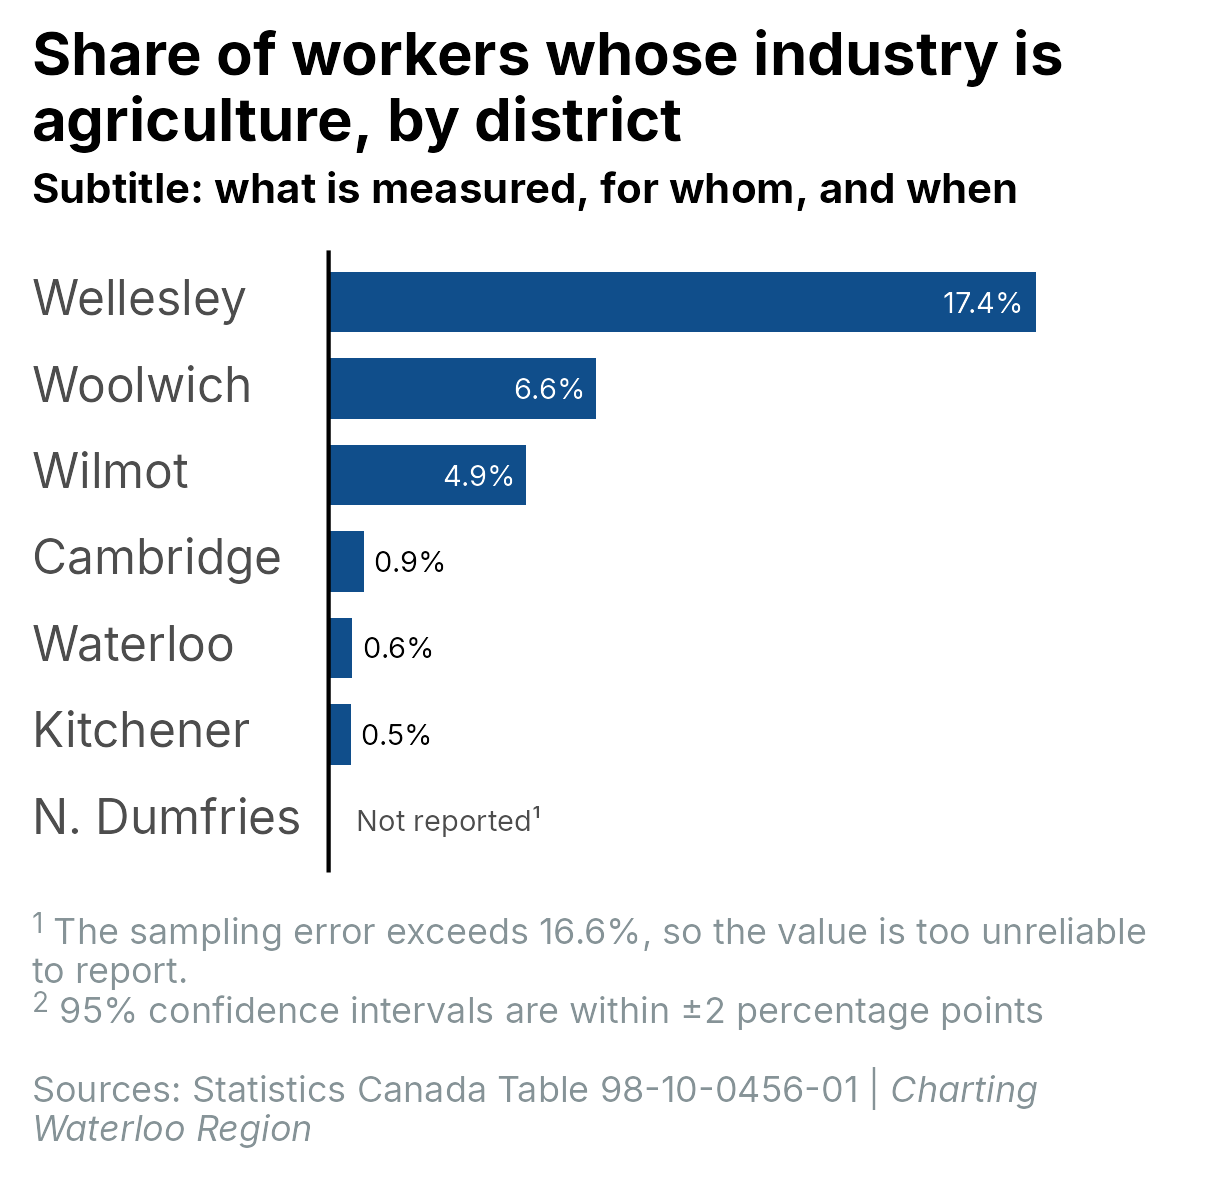
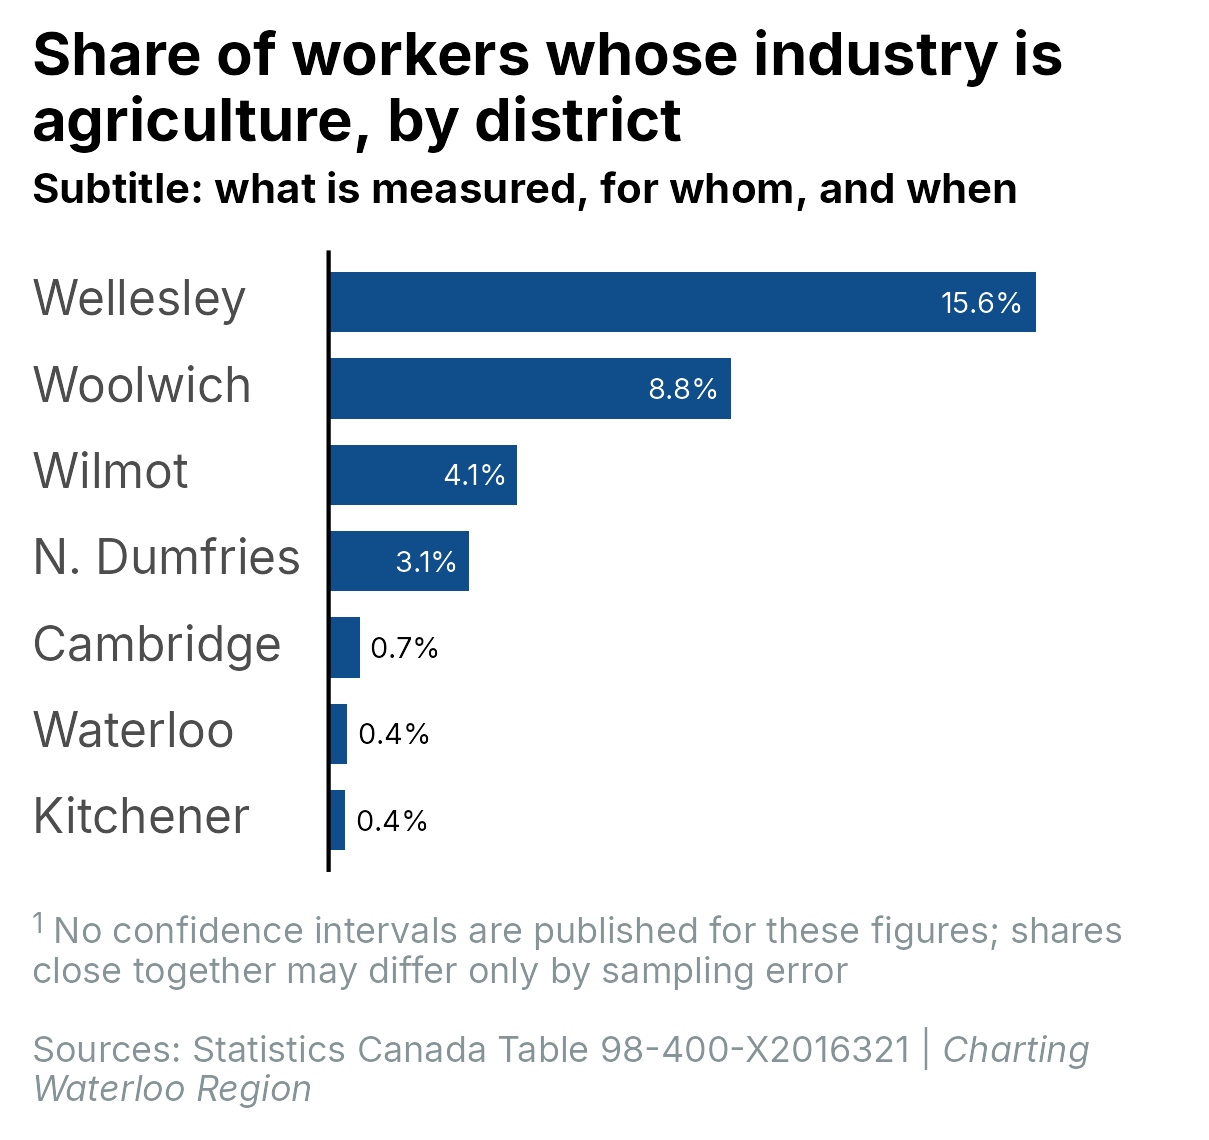
Draw the agriculture chart from the 2016 census table
The chart of each district's share of workers in agriculture now comes
from data table 98-400-X2016321, like the two 2016 tabs above it,
instead of 2021's 98-10-0456. The 2021 fetch drops its 21 agriculture
cells, the chart carries the stock no-intervals note, and the README's
sources, Reliability rows, Key terms citation and notes follow. The
render also refreshes the 2016 tab PNGs, which were stale after their
titles changed.

diff --git a/posts/work-from-home/README.md b/posts/work-from-home/README.md
@@ -10,7 +10,7 @@ Split off the commuting post on 2026-09-23: the charts of who worked at home, in
 |------------------------------------|------------------------------------|
 | Worked at home | "Worked at home (including farms) - Persons whose job is located in the same building as their place of residence, persons who live and work on the same farm and teleworkers who spend most of their work week working at home." One category of place of work status, which "refers to whether a person worked at home, worked outside Canada, had no fixed workplace address, or worked at a specific address (usual place of work)". "Teleworkers who spend less than one-half of their workweek working at their home office are asked to report the full address of their employer." (Statistics Canada, Dictionary, Census of Population, 2021, "Place of work status"; the same wording is the footnote on the Place of work status dimension of table 98-10-0456-01) |
 | Industry | "'Industry' refers to a generally homogeneous group of economic producing units, primarily engaged in a specific set of activities." A person who held more than one job between January 1, 2015 and May 2016 is counted in "the job held the longest during that period". The categories charted are the 20 sectors of the North American Industry Classification System (NAICS), 2012 in 2016 and 2017 in 2021; the 20 sectors are the same in both. (Statistics Canada, Dictionary, Census of Population, 2016, "Industry (based on the North American Industry Classification System \[NAICS\] 2012)") |
-| Agriculture, forestry, fishing and hunting | "This sector comprises establishments primarily engaged in growing crops, raising animals, harvesting timber, harvesting fish and other animals from their natural habitats and providing related support activities." Establishments "primarily engaged in agricultural research or that supply veterinary services are not included in this sector". The first of the 20 NAICS sectors. (Statistics Canada, North American Industry Classification System (NAICS) Canada 2017 Version 3.0, "11 - Agriculture, forestry, fishing and hunting") |
+| Agriculture, forestry, fishing and hunting | "This sector comprises establishments primarily engaged in growing crops, raising animals, harvesting timber, harvesting fish and other animals from their natural habitats and providing related support activities." Establishments "primarily engaged in agricultural research or that supply veterinary services are not included in this sector". The first of the 20 NAICS sectors. (Statistics Canada, North American Industry Classification System (NAICS) Canada 2012, "11 - Agriculture, forestry, fishing and hunting") |
 
 ```{=html}
 <!-- Only terms that appear in a chart - in its title or subtitle, or in its main body (segment
@@ -33,8 +33,8 @@ Split off the commuting post on 2026-09-23: the charts of who worked at home, in
 
 | File in `data-raw/` | What it is | Source (link) | Licence | Sample | Accessed |
 |------------|------------|------------|------------|------------|------------|
-| `table_98100456.csv`, `table_98100456_members.csv` | Table 98-10-0456-01, place of work status by industry sectors, occupation broad category and gender, 2021 census: the 189 cells three of the post's charts use - the Region and its seven districts at the table's industry total, and the Region at each of the 20 NAICS sectors, each as all workers and those who worked at home with the count's 95% confidence interval bounds, plus the seven districts at agriculture, forestry, fishing and hunting for the agriculture chart - fetched from Statistics Canada's web data service, with the members file giving each sector's name | [Statistics Canada](https://www150.statcan.gc.ca/t1/tbl1/en/tv.action?pid=9810045601) | [Statistics Canada Open Licence](https://www.statcan.gc.ca/en/reference/licence) | Census long form, 25% sample of private households | 2026-09-22 |
-| `table_2016321_region.csv`, `table_2016321_notes.csv` | Data table 98-400-X2016321, place of work status by industry, occupation and sex, 2016 census, cut to the Region and its seven districts at every industry (the table's own total and the 20 NAICS sectors), with occupation and sex at their totals: the total-industry rows are the work-at-home chart's 2016 figures and the sector rows are the industry chart; the notes file holds the table's data-quality note and its place-of-work-status footnote, read from the metadata in the download | [Statistics Canada](https://www150.statcan.gc.ca/n1/en/catalogue/98-400-X2016321) | [Statistics Canada Open Licence](https://www.statcan.gc.ca/en/reference/licence) | Census long form, 25% sample of private households (2016) | 2026-09-22 |
+| `table_98100456.csv`, `table_98100456_members.csv` | Table 98-10-0456-01, place of work status by industry sectors, occupation broad category and gender, 2021 census: the 168 cells two of the post's charts use - the Region and its seven districts at the table's industry total, and the Region at each of the 20 NAICS sectors, each as all workers and those who worked at home with the count's 95% confidence interval bounds - fetched from Statistics Canada's web data service, with the members file giving each sector's name | [Statistics Canada](https://www150.statcan.gc.ca/t1/tbl1/en/tv.action?pid=9810045601) | [Statistics Canada Open Licence](https://www.statcan.gc.ca/en/reference/licence) | Census long form, 25% sample of private households | 2026-09-22 |
+| `table_2016321_region.csv`, `table_2016321_notes.csv` | Data table 98-400-X2016321, place of work status by industry, occupation and sex, 2016 census, cut to the Region and its seven districts at every industry (the table's own total and the 20 NAICS sectors), with occupation and sex at their totals: the total-industry rows are the work-at-home chart's 2016 figures the sector rows are the industry chart, and the districts' agriculture rows are the agriculture chart; the notes file holds the table's data-quality note and its place-of-work-status footnote, read from the metadata in the download | [Statistics Canada](https://www150.statcan.gc.ca/n1/en/catalogue/98-400-X2016321) | [Statistics Canada Open Licence](https://www.statcan.gc.ca/en/reference/licence) | Census long form, 25% sample of private households (2016) | 2026-09-22 |
 | `census_tnr.csv` | Long-form and short-form total non-response rates for the Region and its seven districts, read from each area's Census Profile page by `cwr_census_tnr()` | [Statistics Canada, Census Profile 2021](https://www12.statcan.gc.ca/census-recensement/2021/dp-pd/prof/index.cfm?Lang=E) | [Statistics Canada Open Licence](https://www.statcan.gc.ca/en/reference/licence) | None (rates about the census's own collection) | 2026-09-22 |
 | `table_98100572.csv` | Table 98-10-0572-01, long-form data quality indicators for commuting: non-response and imputation rates per question, cut to the Region's eight geographies | [Statistics Canada](https://www150.statcan.gc.ca/t1/tbl1/en/tv.action?pid=9810057201) | [Statistics Canada Open Licence](https://www.statcan.gc.ca/en/reference/licence) | Census long form, 25% sample of private households (the rates are weighted estimates) | 2026-09-22 |
 
@@ -45,9 +45,9 @@ Files that cannot be re-downloaded by script, or are over 25 MB, are attached to
 | Issue | Left out of the post because |
 |------------------------------------|------------------------------------|
 | **Long-form census:** every chart in this post is drawn from the census long-form questionnaire: 2021 from table 98-10-0456 and 2016 from data table 98-400-X2016321, both sent to 25% of households. Its figures are estimates for people in private households; people living in collective dwellings, such as nursing and seniors' homes and student residences, are not included. Each responding household stands for about four, its weight adjusted by Statistics Canada for households that did not respond and matched to the full census counts of age, household size and other characteristics; answers left blank are filled in from similar households. (tables 98-10-0456, 98-400-X2016321) |  |
-| **Sample estimates:** because the figures are estimates, each 2021 share has a 95% confidence interval, built from the intervals Statistics Canada publishes for its counts by Statistics Canada's own method. The intervals cover sampling error and the variability from households that did not respond; they do not cover any bias if those households differ from the ones that did, answers filled in for blank questions, people the census missed or counted twice, misreported answers, or rounding. A share whose sampling error is 16.6% of its value or more - rated "use with caution" (E) or "too unreliable to be published" (F) on Statistics Canada's scale - is not reported: North Dumfries's share of workers in agriculture (E). The 2016 table publishes no intervals, so its shares have none and close rankings drawn from it may differ only by sampling error. (tables 98-10-0456, 98-400-X2016321) |  |
+| **Sample estimates:** because the figures are estimates, each 2021 share has a 95% confidence interval, built from the intervals Statistics Canada publishes for its counts by Statistics Canada's own method. The intervals cover sampling error and the variability from households that did not respond; they do not cover any bias if those households differ from the ones that did, answers filled in for blank questions, people the census missed or counted twice, misreported answers, or rounding. A share whose sampling error is 16.6% of its value or more - rated "use with caution" (E) or "too unreliable to be published" (F) on Statistics Canada's scale - is not reported; none of the 2021 shares charted is. The 2016 table publishes no intervals, so its shares have none and close rankings drawn from it may differ only by sampling error. (tables 98-10-0456, 98-400-X2016321) |  |
 | **Response rates:** 1.5% to 5.0% of the households sent the long form in each district returned nothing usable (3.3% for the Region; Statistics Canada advises caution only at 50% or more), and 1.6% to 4.6% of the answers to the place-of-work question were missing or filled in. In the 2016 census, 2.9% to 4.8% of the long forms in each district returned nothing usable (4.4% for the Region). (Census Profile 2021; tables 98-10-0572, 98-400-X2016321) |  |
-| **2016 census:** the 2016 figures on the chart of districts and on the industry charts come from a 2016 census data table. The table publishes no confidence intervals, so those shares have none, and no rating of their reliability; the charts say so in a note. Counts are randomly rounded to a multiple of 5 to protect confidentiality, which matters most for the smallest industries: the counts behind the district shares are all 460 or more, but management of companies and enterprises rests on 55 people working at home out of 465, where the rounding alone moves the share by about half a point either way. (table 98-400-X2016321) <!-- flags: 98-400-X2016321:notequality --> |  |
+| **2016 census:** the 2016 figures on the chart of districts, the agriculture chart and the industry charts come from a 2016 census data table. The table publishes no confidence intervals, so those shares have none, and no rating of their reliability; the charts say so in a note. Counts are randomly rounded to a multiple of 5 to protect confidentiality, which matters most for the smallest industries: the counts behind the district shares are all 460 or more, and those behind the agriculture shares 175 or more, but management of companies and enterprises rests on 55 people working at home out of 465, where the rounding alone moves the share by about half a point either way. (table 98-400-X2016321) <!-- flags: 98-400-X2016321:notequality --> |  |
 | **Men+ and Women+:** because the non-binary population is small, non-binary people are counted in the Men+ and Women+ categories. (table 98-10-0456) <!-- flags: 98-10-0456:note4 --> | Does not apply: every chart uses the total for all genders, so the Men+ and Women+ split is not used. |
 
 ```{=html}
@@ -95,8 +95,8 @@ Then `quarto render posts/work-from-home` from a terminal.
 
 - Background reading for this post is kept outside the repository (`../chartingwaterlooregion-background/work-from-home/`).
 - No API keys are needed. <!-- If one is, say which and how to get it. -->
-- Sampling: both tables come from the census long-form questionnaire, which went to a 25% sample of private households, so every figure is a weighted estimate for everyone in private households (not a count of respondents, and without people in collective dwellings), and the charts show shares. The Reliability table's "Long-form census" and "Sample estimates" rows say so in the post; the charts carry no sampling note of their own. Table 98-10-0456 publishes a 95% confidence interval for each count (its `Statistics` dimension). `R/02_clean_data.R` turns those into 95% intervals for the 2021 shares (`percent_lower`, `percent_upper`) with `R/census_ci.R`, which follows Statistics Canada's own method: each count's variance is backed out of its published modified Wilson interval (Student's t on 32 degrees of freedom), the share's standard error comes from the US Census Bureau's proportion formula, which allows for the part being counted inside the total, and the share's interval is a modified Wilson interval. `cv` is the coefficient of variation, and `quality` rates it on Statistics Canada's scale: E from 16.6%, F above 33.3%. E and F shares are blanked, as this site never uses either; the agriculture chart names North Dumfries "Not reported" with a note. Charts state the widest of their intervals in a note rather than drawing them. The 2016 data table publishes no intervals at all, so its shares have none and the charts that use them say so. Counts in both years are randomly rounded to a multiple of 5, so a share built on a count under about 50 is rough whatever its interval. Response: `data/census_quality.csv` holds each area's long-form total non-response rate, the non-response and imputation rates for the place-of-work question (from `census_tnr.csv` and table 98-10-0572) and 2016's long-form global non-response rate; all are low.
-- Working at home comes from table 98-10-0456 for 2021 (189 cells fetched by coordinate, like 98-10-0464) and from 2016 census data table 98-400-X2016321 for 2016, the only 2016 table of place of work status for census subdivisions. 2016 data tables are not in Statistics Canada's table database, so `R/01_get_data.R` downloads the whole table (a 640 MB CSV in a 20 MB zip) to a temporary folder and keeps the Region's rows. Both years' shares are of everyone employed in the census week (the total of place of work status, which includes people who worked outside Canada or had no fixed workplace address). The 2016 table has no intervals; its long-form global non-response rate (GNR) is kept in `data/census_quality.csv` as `gnr_long_2016`.
+- Sampling: both tables come from the census long-form questionnaire, which went to a 25% sample of private households, so every figure is a weighted estimate for everyone in private households (not a count of respondents, and without people in collective dwellings), and the charts show shares. The Reliability table's "Long-form census" and "Sample estimates" rows say so in the post; the charts carry no sampling note of their own. Table 98-10-0456 publishes a 95% confidence interval for each count (its `Statistics` dimension). `R/02_clean_data.R` turns those into 95% intervals for the 2021 shares (`percent_lower`, `percent_upper`) with `R/census_ci.R`, which follows Statistics Canada's own method: each count's variance is backed out of its published modified Wilson interval (Student's t on 32 degrees of freedom), the share's standard error comes from the US Census Bureau's proportion formula, which allows for the part being counted inside the total, and the share's interval is a modified Wilson interval. `cv` is the coefficient of variation, and `quality` rates it on Statistics Canada's scale: E from 16.6%, F above 33.3%. E and F shares are blanked, as this site never uses either; none of the 2021 shares charted is. Charts state the widest of their intervals in a note rather than drawing them. The 2016 data table publishes no intervals at all, so its shares have none and the charts that use them say so. Counts in both years are randomly rounded to a multiple of 5, so a share built on a count under about 50 is rough whatever its interval. Response: `data/census_quality.csv` holds each area's long-form total non-response rate, the non-response and imputation rates for the place-of-work question (from `census_tnr.csv` and table 98-10-0572) and 2016's long-form global non-response rate; all are low.
+- Working at home comes from table 98-10-0456 for 2021 (168 cells fetched by coordinate, like 98-10-0464) and from 2016 census data table 98-400-X2016321 for 2016, the only 2016 table of place of work status for census subdivisions. 2016 data tables are not in Statistics Canada's table database, so `R/01_get_data.R` downloads the whole table (a 640 MB CSV in a 20 MB zip) to a temporary folder and keeps the Region's rows. Both years' shares are of everyone employed in the census week (the total of place of work status, which includes people who worked outside Canada or had no fixed workplace address). The 2016 table has no intervals; its long-form global non-response rate (GNR) is kept in `data/census_quality.csv` as `gnr_long_2016`.
 - One 2021 table now serves both charts of working at home. 98-10-0467 (place of work status by education, age and gender) was used for the chart by district at first, and 98-10-0456 (by industry sector, occupation and gender) for the industry chart. Since none of education, age or gender is used in the post, the district chart was moved onto 98-10-0456 as well (Greg, 2026-09-22), which also means both years now come from tables crossed the same way. The two 2021 tables give the same district figures apart from Statistics Canada's random rounding: Wilmot is 2,970 workers at home in 98-10-0456 against 2,975 in 98-10-0467, a tenth of a percentage point, and two of the eight totals differ by 5 people. What 2016 cannot match is the crossing itself: the 2016 census has three place-of-work-status tables (98-400-X2016319, 98-400-X2016320 and 98-400-X2016321), all crossed with industry and none with education, and only 98-400-X2016321 goes below the census metropolitan area. So 2021 could be split by education, age or gender and 2016 could not, and a chart comparing the years can only show totals or the industry sectors both tables carry.
 - The two industry charts are one ranking drawn twice: a lollipop of the 2016 shares, and further down a dumbbell that adds each sector's 2021 dot, the line between them and the change in points. They were one chart in two tabs until 2026-09-23, when Greg split them into separate charts and moved the 2016 one above the chart of districts. Both draw the same ten rows in the same order, ranked on 2016; each has its own x axis now that they are not shown one over the other. The ten are the sectors with the largest 2016 shares; each table's own industry total is left out, being the Region-wide share the chart above already gives. 2016 comes from data table 98-400-X2016321 and 2021 from table 98-10-0456, the two tables that cross place of work status with industry for this geography; both use the same 20 NAICS sectors (2012 in 2016, 2017 in 2021) and the sector names match exactly. 2021 publishes interval bounds and 2016 does not, so the dumbbell states the widest 2021 interval and says none is available for 2016. Two cautions on the 2016 ranking: finance and insurance (7.81%) and wholesale trade (7.79%) are separated by about two hundredths of a point, which is well inside what random rounding alone can move; and management of companies and enterprises is a small sector in 2016, 465 workers, so its 11.8% rests on a rounded count of 55.
-- The agriculture chart is a different measure from the rest of the post: not where people work or how they get there, but which industry they work in. It is each district's workers in agriculture, forestry, fishing and hunting - the first NAICS sector, which takes in forestry, fishing and hunting as well as farming - as a share of all its employed residents, both taken at the place-of-work total, so a farm worker counts wherever the work is done. The figures are from table 98-10-0456 for 2021 only; 2016's table crosses industry with place of work status too, so the same chart could be drawn for 2016 if it were wanted. North Dumfries is not reported: 205 workers, an interval of 138 to 304, which Statistics Canada's scale rates E.
+- The agriculture chart is a different measure from the rest of the post: not where people work or how they get there, but which industry they work in. It is each district's workers in agriculture, forestry, fishing and hunting - the first NAICS sector, which takes in forestry, fishing and hunting as well as farming - as a share of all its employed residents, both taken at the place-of-work total, so a farm worker counts wherever the work is done. The figures are from 2016 data table 98-400-X2016321, the same table as the 2016 work-at-home charts it sits beside; until 2026-09-24 the chart used 2021's table 98-10-0456, and Greg moved it to 2016 to match. The 2016 table publishes no intervals, so the chart carries the stock "No confidence intervals are published" note. The smallest count is North Dumfries's 175 workers, where random rounding moves the share by less than a tenth of a point; Waterloo (0.40%) and Kitchener (0.37%) are close enough that their order may be sampling error alone.
